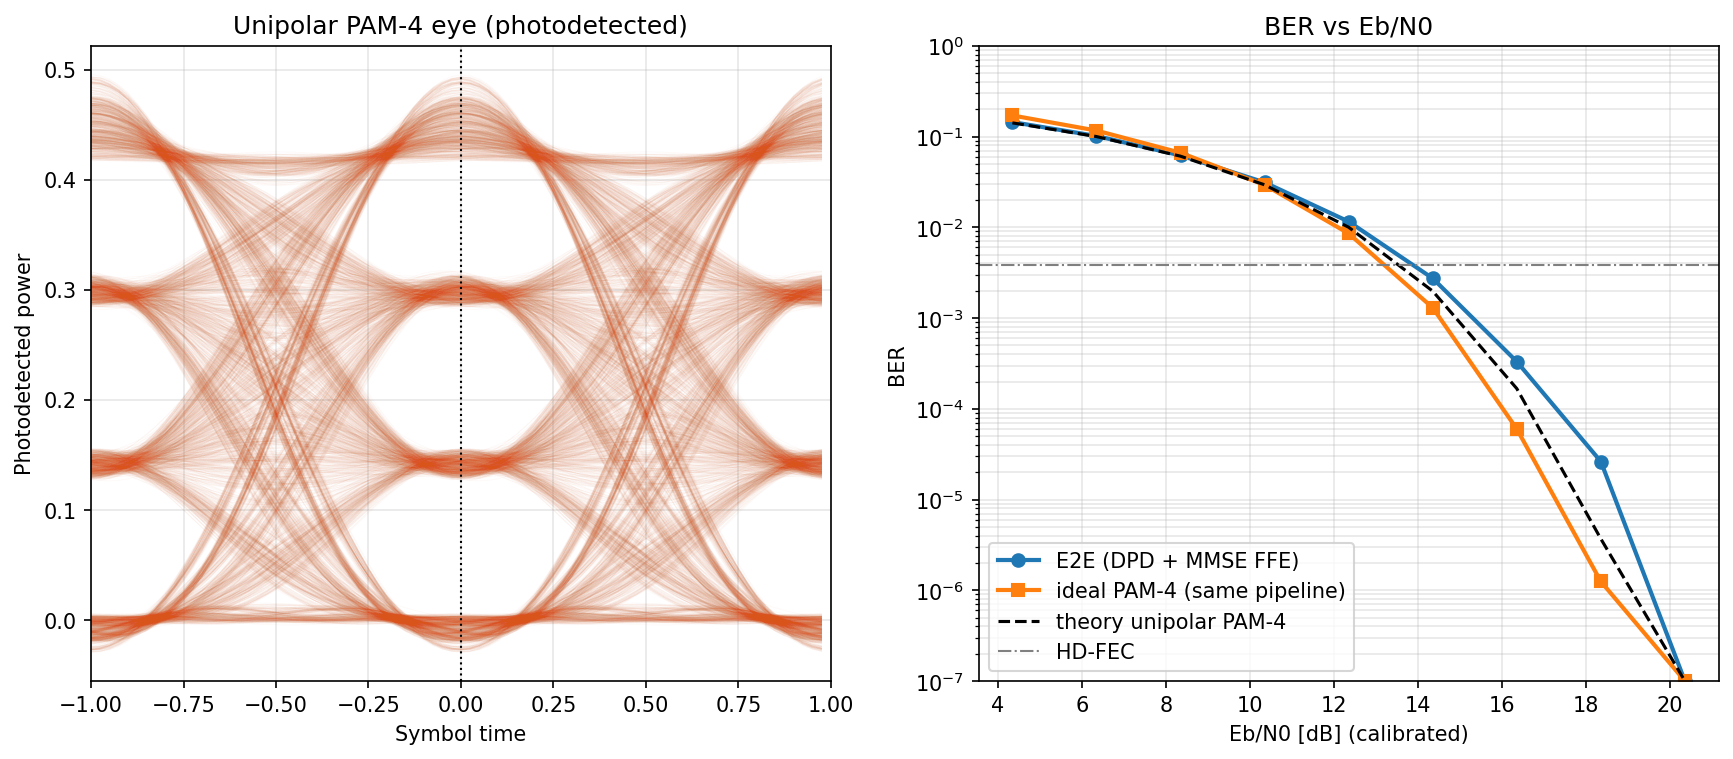
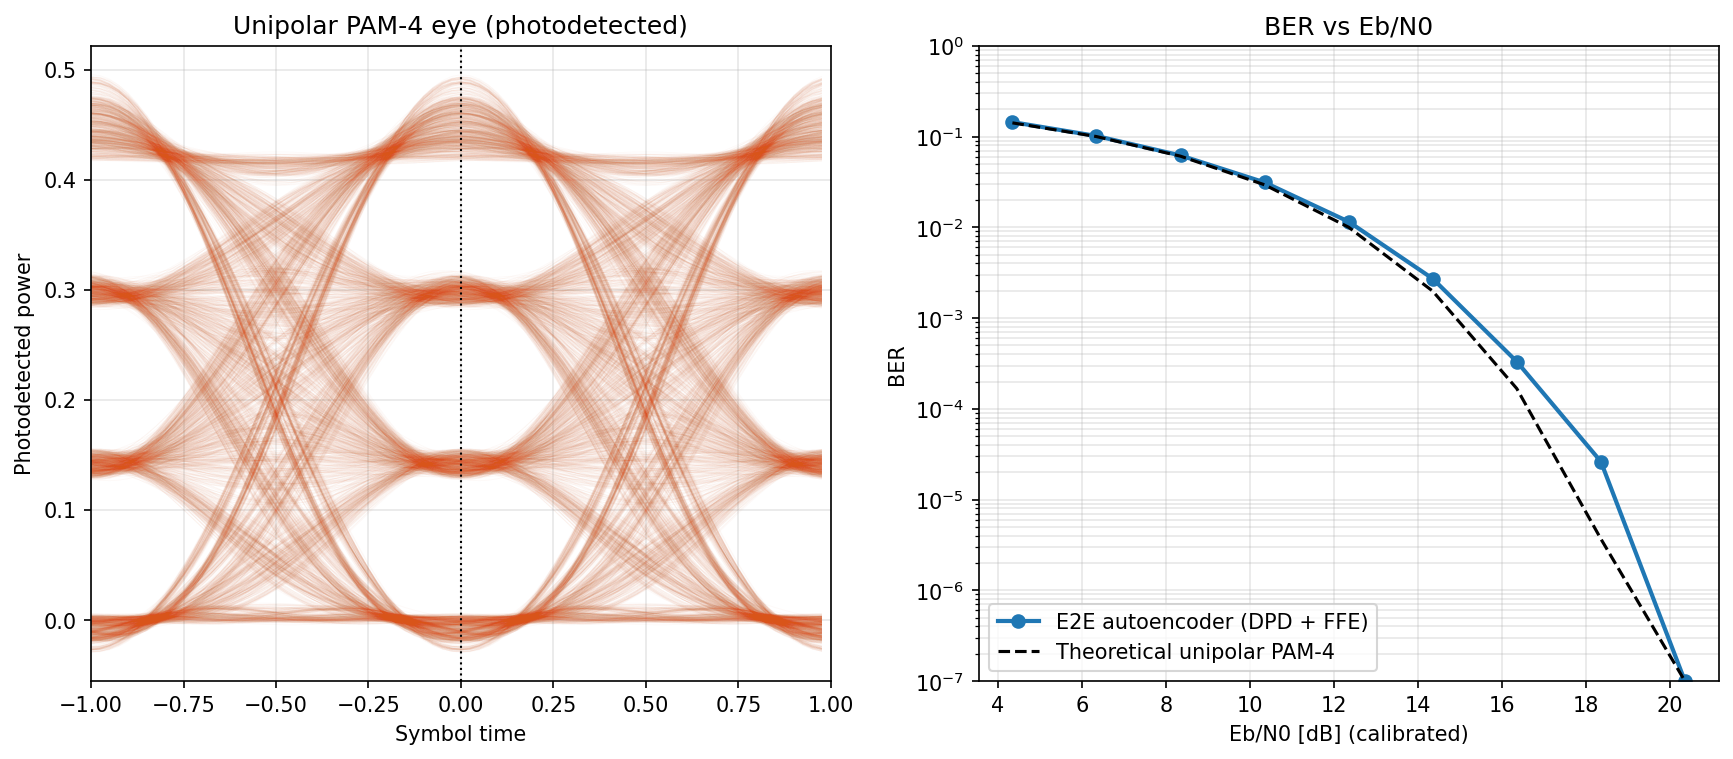
plot: drop ideal reference (was below theory), rename labels, remove HD-FEC line

diff --git a/main.py b/main.py
@@ -73,10 +73,8 @@ def main():
     fig, axes = plt.subplots(1, 2, figsize=(14, 5.5))
     draw_eye(axes[0], photocurrent, sps, phase, "Unipolar PAM-4 eye (photodetected)")
     floor = lambda a: np.maximum(a, 1e-7)
-    axes[1].semilogy(ebn0_db - offset, floor(measured), "-o", linewidth=2, label="E2E (DPD + MMSE FFE)")
-    axes[1].semilogy(ebn0_db - offset, floor(reference), "-s", linewidth=2, label="ideal PAM-4 (same pipeline)")
-    axes[1].semilogy(ebn0_db - offset, floor(theory), "k--", linewidth=1.5, label="theory unipolar PAM-4")
-    axes[1].axhline(3.8e-3, color="gray", linestyle="-.", linewidth=1, label="HD-FEC")
+    axes[1].semilogy(ebn0_db - offset, floor(measured), "-o", linewidth=2, label="E2E autoencoder (DPD + FFE)")
+    axes[1].semilogy(ebn0_db - offset, floor(theory), "k--", linewidth=1.5, label="Theoretical unipolar PAM-4")
     axes[1].grid(True, which="both", alpha=0.3)
     axes[1].set_xlabel("Eb/N0 [dB] (calibrated)")
     axes[1].set_ylabel("BER")
